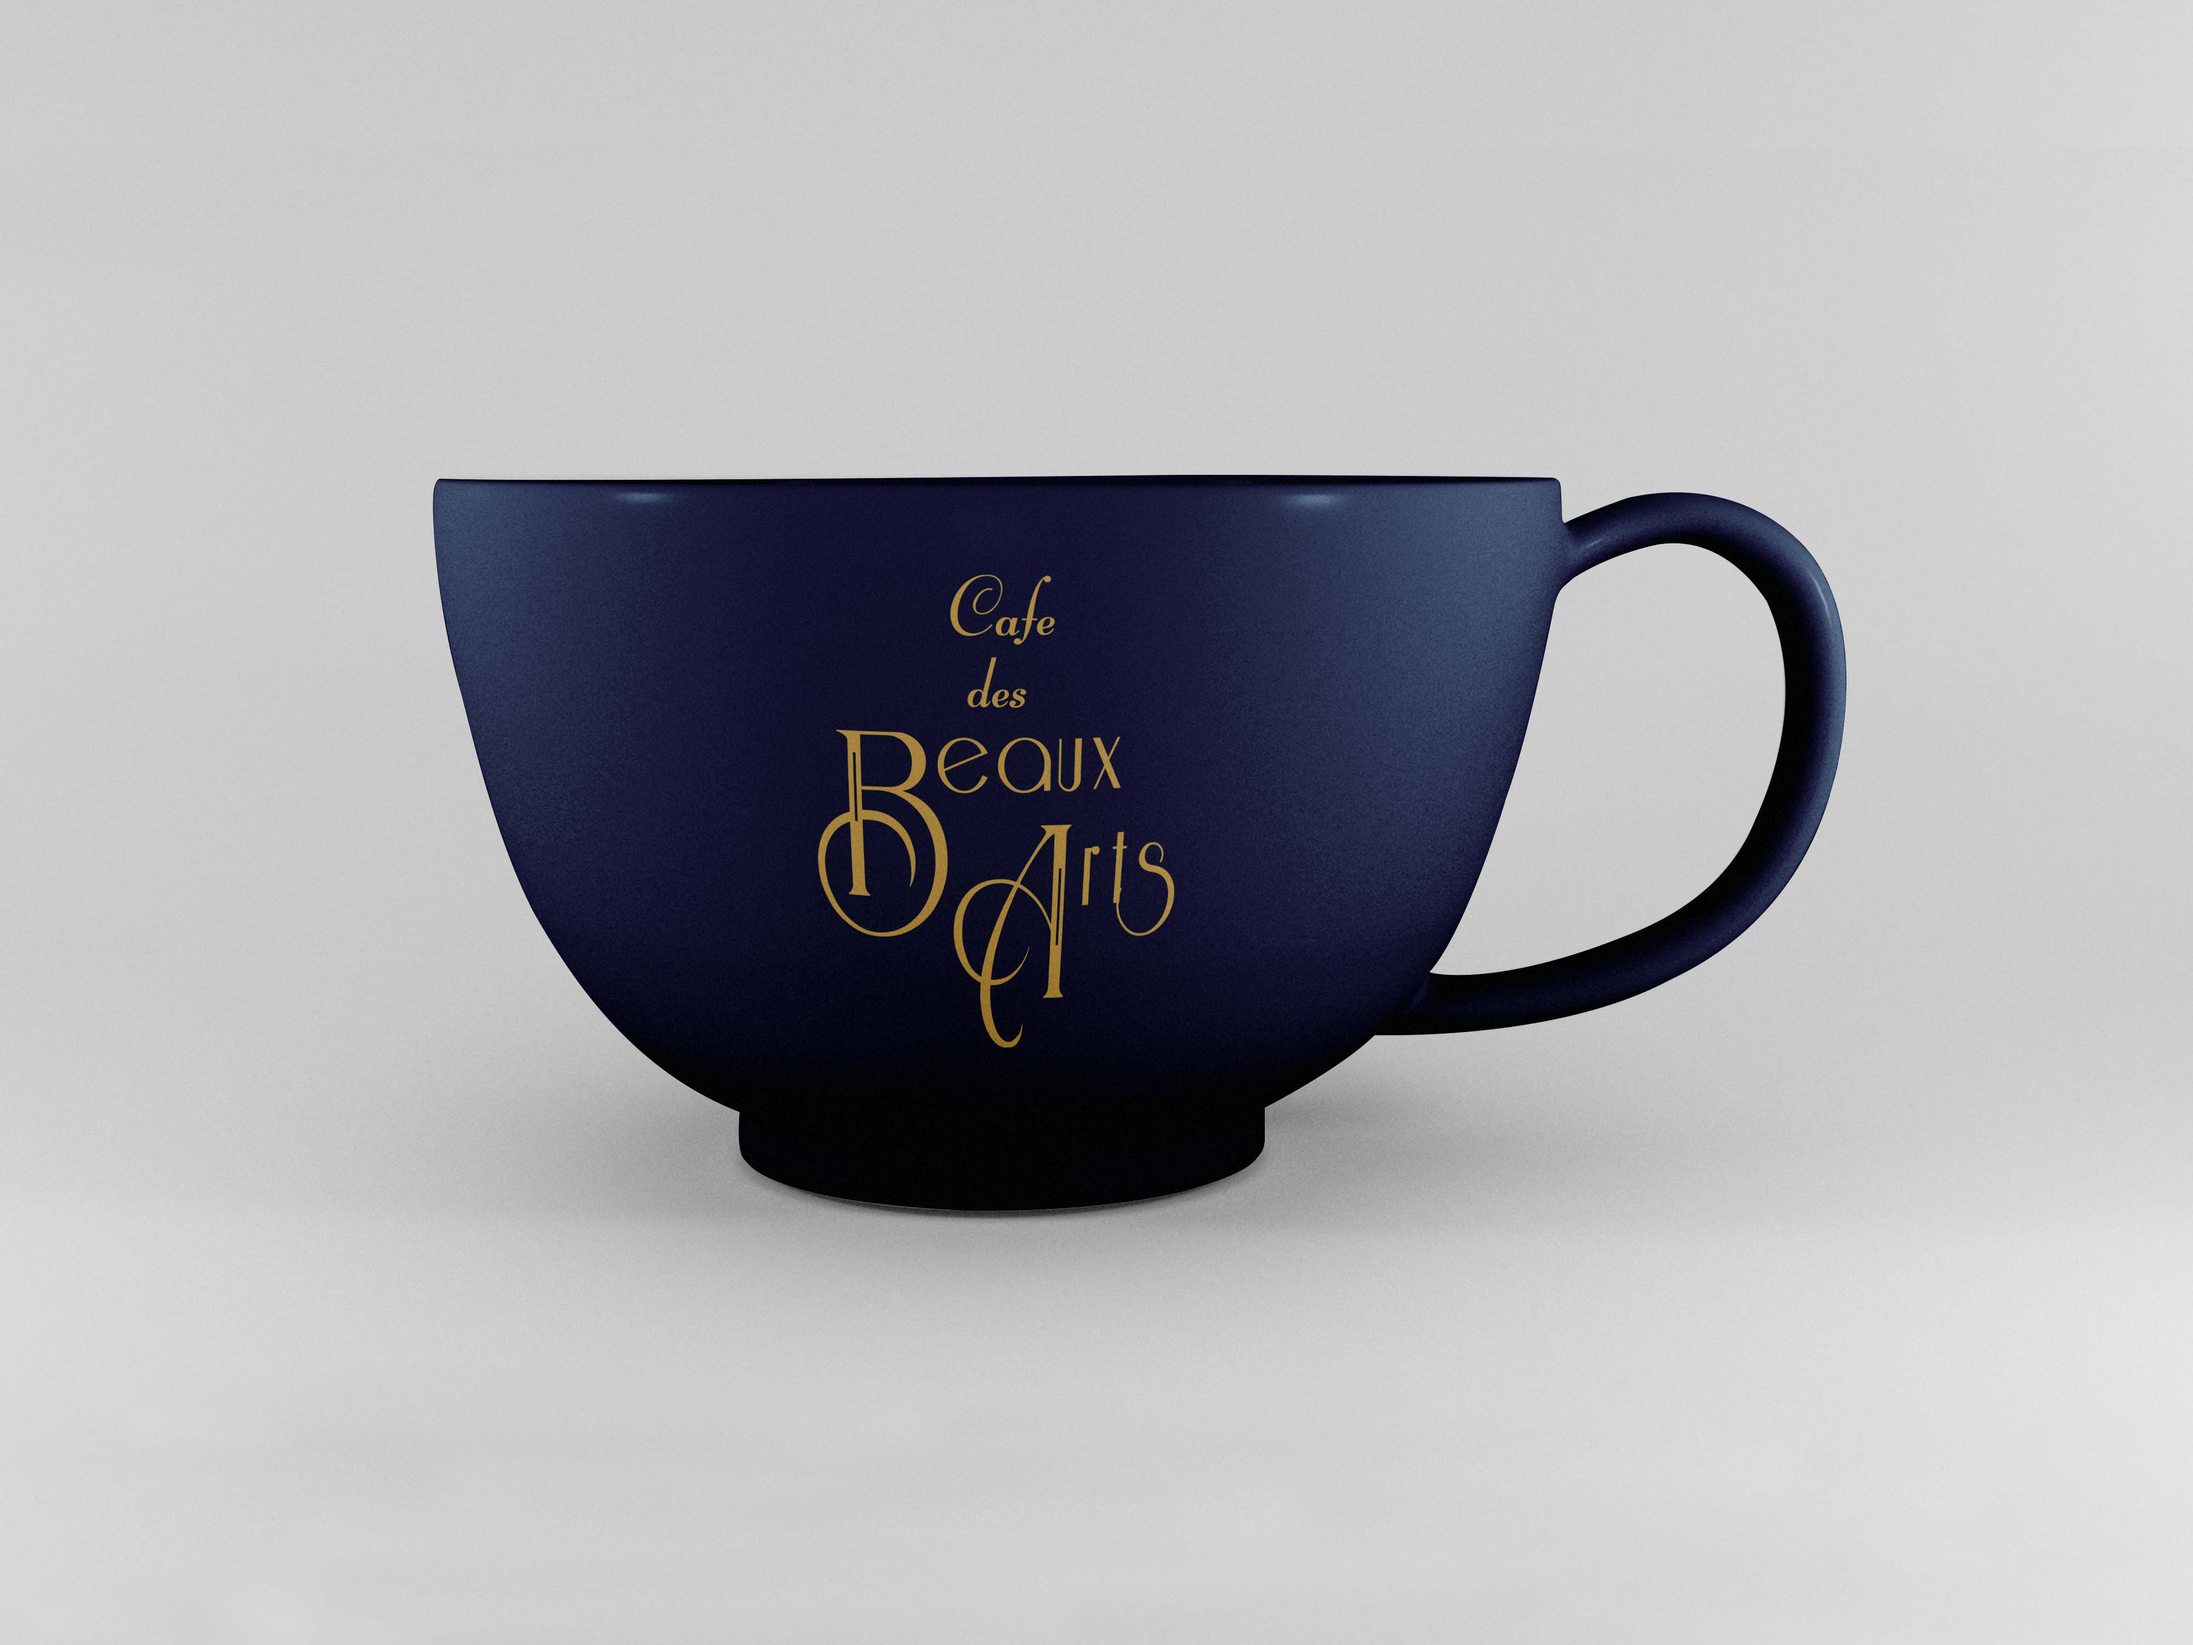
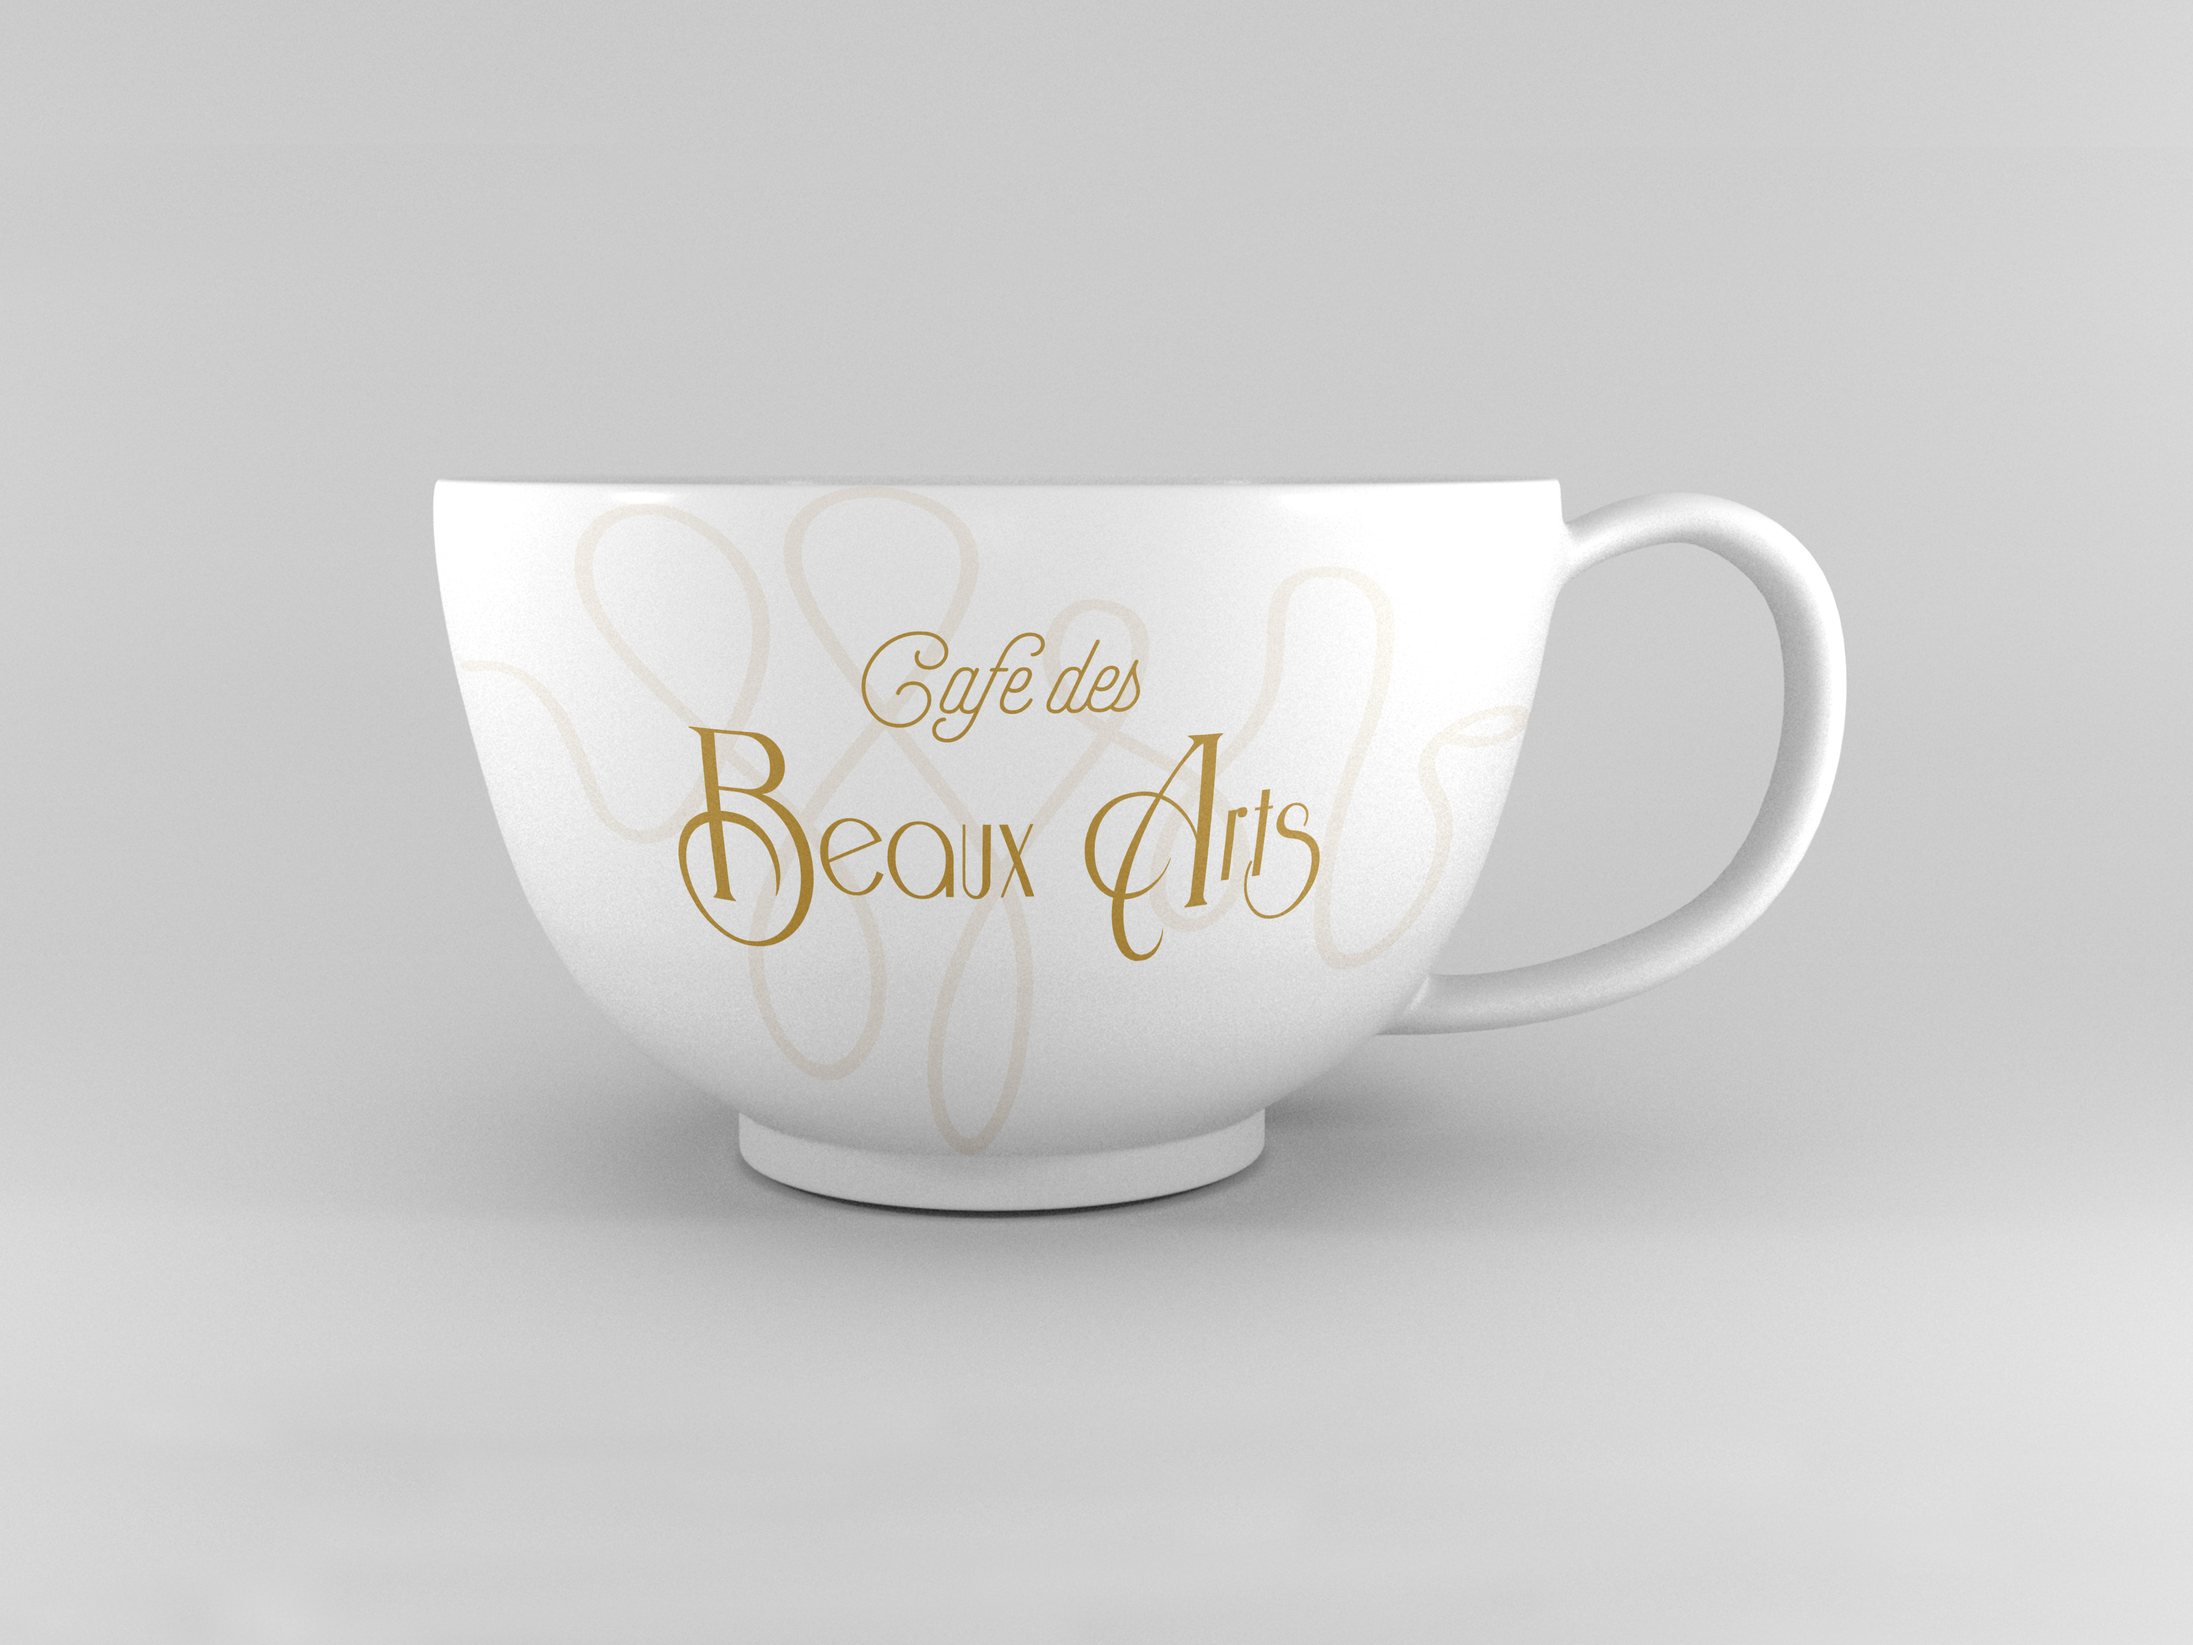
Update CDBA Project

Changed region(s): [[0.1875, 0.279, 0.8438, 0.744]]

diff --git a/work-cafe-des-beaux-art.html b/work-cafe-des-beaux-art.html
@@ -2,15 +2,6 @@
 <html>
 
 <head>
-    <!-- Google tag (gtag.js) -->
-    <script async src="https://www.googletagmanager.com/gtag/js?id=G-F1MSM1PRE1"></script>
-    <script>
-        window.dataLayer = window.dataLayer || [];
-        function gtag() { dataLayer.push(arguments); }
-        gtag('js', new Date());
-
-        gtag('config', 'G-F1MSM1PRE1');
-    </script>
     <meta charset="UTF-8">
     <meta name="viewport" content="width=device-width, initial-scale=1">
     <link rel="stylesheet" href="styles/styles.css">
@@ -64,13 +55,11 @@
     <!-- PROJECT PRESENTATION -->
     <section class="presentation container center-text">
         <img src="images/cafe-des-beaux-art/stationery-set.jpg" alt="Cafe des Beaux Arts's stationery set" />
-        <img src="images/cafe-des-beaux-art/packaging-2.jpg" alt="Cafe des Beaux Arts's packaging" />
         <img src="images/cafe-des-beaux-art/thumbnail-packaging-1.jpg" alt="Cafe des Beaux Arts's packaging" />
         <img src="images/cafe-des-beaux-art/coffeebag.jpg" alt="Cafe des Beaux Arts's coffee bag" />
         <img src="images/cafe-des-beaux-art/cup-1.jpg" alt="Cafe des Beaux Arts's coffee cup front" />
-        <img src="images/cafe-des-beaux-art/cup-2.jpg" alt="Cafe des Beaux Arts's coffee cup back" />
-        <img src="images/cafe-des-beaux-art/website.png" alt="Cafe des Beaux Arts's home page" />
-        <p><a href="https://www.figma.com/proto/qSv3CfPOMdABmG60af5TQ3/Cafe-des-Beaux-Arts?node-id=2%3A2&scaling=min-zoom&page-id=0%3A1"
+        <img src="images/cafe-des-beaux-art/website.jpg" alt="Cafe des Beaux Arts's home page" />
+        <p><a href="https://www.figma.com/proto/qSv3CfPOMdABmG60af5TQ3/Cafe-des-Beaux-Arts?node-id=246%3A31&scaling=scale-down&page-id=0%3A1&starting-point-node-id=2%3A2"
                 target="_blank">View full web design here</a></p>
         <hr>
     </section>
@@ -88,8 +77,8 @@
                     <a href="https://www.linkedin.com/in/tramtrank/" target="_blank"><img src="images/icon-linkedin.png"
                             alt="LinkedIn icon" /></a>
                 </div>
-            </div>
-            <p>Copyright 2022. All rights reserved.</p>
+                </div>
+                <p>Copyright 2022. All rights reserved.</p>
             </div>
         </section>
     </footer>

diff --git a/styles/styles.css b/styles/styles.css
@@ -1,4 +1,4 @@
-@import url('https://fonts.googleapis.com/css2?family=Nunito:ital,wght@0,300;0,400;0,500;0,600;0,700;1,400&family=Ovo&display=swap');
+@import url("https://fonts.googleapis.com/css2?family=Bodoni+Moda:wght@400;500;600;700&family=Cormorant+Garamond:wght@500;600;700&family=Nunito:ital,wght@0,300;0,400;0,500;0,600;0,700;1,400&display=swap");
 * {
   box-sizing: border-box;
 }
@@ -25,12 +25,12 @@ body {
   margin: 0 auto;
 }
 h1 {
-  font: 500 1.375rem "Ovo", serif;
+  font: 700 1.375rem "Cormorant Garamond", serif;
   color: #c5a459;
   margin: 2rem auto 1rem;
 }
 h2 {
-  font: 600 0.875rem "Montserrat", sans-serif;
+  font: 600 0.875rem "Bodoni Moda", serif;
   color: #1a361a;
 }
 p,
@@ -80,7 +80,7 @@ header ul li a,
 footer ul li a {
   text-decoration: none;
   color: #1a361a;
-  font: 600 0.75rem "Nunito", serif;
+  font: 600 0.75rem "Bondoni Moda", serif;
 }
 header ul li a:hover {
   color: #c5a459;
@@ -239,9 +239,6 @@ footer ul li a:hover {
 .about {
   width: 100%;
 }
-.about h1{
-  font-family: "Nunito", sans-serif;
-}
 .profile-pics {
   width: 100%;
   display: grid;
@@ -399,7 +396,7 @@ form > *:not(label) {
   margin-bottom: 1.5rem;
 }
 .cafe-des-beaux-arts-hero {
-  background: url(/images/cafe-des-beaux-art/website.png) no-repeat;
+  background: url(/images/cafe-des-beaux-art/website.jpg) no-repeat;
   background-size: cover;
   background-position: center center;
 }
